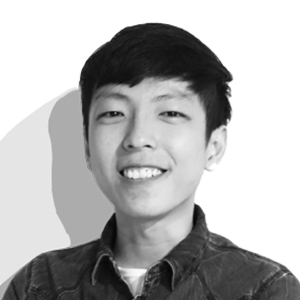
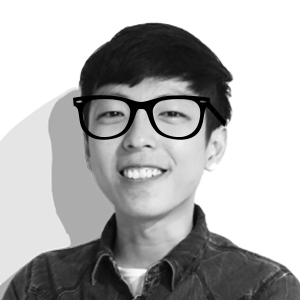
fix android overflow problom and add top button and remove preloader

Changed region(s): [[0.24, 0.3, 0.75, 0.48]]

diff --git a/js/resp.js b/js/resp.js
@@ -1,7 +1,7 @@
 //preloader
 window.addEventListener('DOMContentLoaded', function (e) { 
         $('#loader').show();
-        preload('./img/ai_paint.jpg','./img/ai_pics1.png','./img/ai_pics2.png','./img/ai_prototype.jpg','./img/go_logo.png','./img/go_pics1.png','./img/go_pics2.png','./img/go_prototype.jpg','./img/go_workflow.png','./img/me_desk.jpg','./img/me_myself.jpg','./img/me_nomachove.png','./img/mot_pics1.png','./img/mot_pics2.png','./img/mot_prototype.jpg','./img/resume_webconcept.png','./img/tkd_webconcept.png','./img/go_webconcept.png');     
+        //preload('./img/ai_paint.jpg','./img/ai_pics1.png','./img/ai_pics2.png','./img/ai_prototype.jpg','./img/go_logo.png','./img/go_pics1.png','./img/go_pics2.png','./img/go_prototype.jpg','./img/go_workflow.png','./img/me_desk.jpg','./img/me_myself.jpg','./img/me_nomachove.png','./img/mot_pics1.png','./img/mot_pics2.png','./img/mot_prototype.jpg','./img/resume_webconcept.png','./img/tkd_webconcept.png','./img/go_webconcept.png');     
 }, false);     
 window.addEventListener('load', function (e) {
 	//wait till once time animation end
@@ -66,7 +66,7 @@ function srollPage(){
 		    afterMove: function(index) {
 		        $('.leftInfo').fadeIn();
 		    },  
-		    loop: true,                     
+		    loop: false,                     
 		    keyboard: true,                  
 		    responsiveFallback: false,                          
 		    direction: "vertical"            
@@ -101,6 +101,14 @@ function srollPage(){
 	    }).on('mouseleave',function(){
 	        $('.aboutMe .uiShow').removeClass('shy');
 	    });
+	    $('.sunGlass').on('mouseover',function(){
+	        $('.hoverHead').find('img').attr('src','img/jim_hover.jpg');
+	    }).on('mouseleave',function(){
+	        $('.hoverHead').find('img').attr('src','img/jim.jpg');
+	    });
+	    $('.backToTop').on('click',function(){
+	    	$(".main").moveTo(1);
+	    });
 	});
 	
 
@@ -113,7 +121,9 @@ function srollPageDisabled(){
 		    responsiveFallback: true                          
 		});
 		$('#mePage').on('click',function(){
-			window.location.assign("http://jimfu.github.io/me_page.html");
+			// var windowLocation = ;
+			console.log(window.location.hostname);
+			// window.location.assign("http://jimfu.github.io/me_page.html");
 		});
 		$('#aiPage').on('click',function(){
 			window.location.assign("http://jimfu.github.io/ai_page.html");
@@ -130,6 +140,7 @@ function srollPageDisabled(){
 		$('#tkdPage').on('click',function(){
 			window.location.assign("http://jimfu.github.io/tkd_page.html");
 		});
+		$('.backToTop').hide();
 	});
 }
 

diff --git a/index.html b/index.html
@@ -121,7 +121,7 @@
                             <div class="murmurTitle">Graphic design</div>
                             <div class="murmurContent">
                                 I also handle all the icons and mascot design in this EIP.<br>
-                                These graphics are used for speical occations like google doodle. For instance, snowing in winter, rabbit astronaut drifts in outer space, the Nian monster play hide and seek with you, etc....
+                                These graphics are used for speical occations like google doodle. For instance, snowing in winter, rabbit astronaut drifting in outer space, the Nian monster playing hide and seek with you, etc....
                             </div>
                         </div>
                         <div class="pics">
@@ -361,9 +361,17 @@
         <section>
 
             <div class="hoverHead">
-                <img src="img/jim.jpg">
-                <div class="flirt">Still interested in me?</div>
-                <div class="linkPack"><a href="http://tw.linkedin.com/in/jiminfu" target="_blank">Linkedin</a> | <a href="https://drive.google.com/file/d/0B7Svp2hh-AMgRTBjdFZ2T0NJbjA/view?usp=sharing" target="_blank">Resume</a> | <a href="https://www.pinterest.com/uiuiuaa/" target="_blank">Pinterest</a></div>
+                <span>
+                    <img src="img/jim.jpg" class="sunGlass">
+                    <div class="flirt">Still interested in me?</div>
+                    <div class="linkPack">
+                        <span class="sunGlass">
+                            <a href="http://tw.linkedin.com/in/jiminfu" target="_blank">Linkedin</a> | 
+                            <a href="https://drive.google.com/file/d/0B7Svp2hh-AMgRTBjdFZ2T0NJbjA/view?usp=sharing" target="_blank">Resume</a> | <a href="https://www.pinterest.com/uiuiuaa/" target="_blank">Pinterest</a>
+                        </span>
+                    </div>
+                    <div class="backToTop sunGlass"></div>
+                </span>
             </div>
 
         </section>

diff --git a/css/style.css b/css/style.css
@@ -884,6 +884,7 @@ section:nth-child(6) .murmurTitle{ border-color:rgb(221, 9, 23); }
 .flirt{
     color: white;
     padding: 10px;
+    margin-top: 25px;
 
 }
 .hoverHead a{
@@ -919,3 +920,26 @@ section:nth-child(6) .murmurTitle{ border-color:rgb(221, 9, 23); }
     transition: all 200ms ease;
 }
 .linkPack{ color: white }
+.pageOverflow{
+    width: 100%;
+    overflow-y: auto;   
+}
+.backToTop{
+    display: inline-block;
+    width: 50px;
+    height: 50px;
+    background-image: url('../img/backBtn.png');
+    background-size: auto 100%;
+    margin-top: 15px;
+    background-position: -50px 0;
+    cursor: pointer;
+    border-radius: 100px;
+    -webkit-transform: scale(0.9);
+    -moz-transform: scale(0.9);
+    -ms-transform: scale(0.9);
+    -o-transform: scale(0.9);
+    transform: scale(0.9);
+}
+.backToTop:hover{
+    opacity: 0.8;
+}

diff --git a/ai_page.html b/ai_page.html
@@ -17,19 +17,11 @@
 
 </head>
 <body style="background: #2A2C34;">
-    <div id="banHeight">
-
-            <div class="rotatePhone"></div>
-
-    </div>
-<!--     <div id="loader">
-        <div class="sign"></div>
-    </div> -->
     <span class="backBtn fade animated fadeIn" style="display: block;"></span>
 
     <div class="main">
         <section class="aboutMe">
-            <div class="leftInfo" style="background-color:rgb(42, 44, 52);">
+            <div class="leftInfo pageOverflow" style="background-color:rgb(42, 44, 52);">
                 <div class="content animated fadeIn" style="display:block">
                     <h1>AI GROUP EIP</h1>
                     <div class="perBlock">

diff --git a/resume_page.html b/resume_page.html
@@ -17,19 +17,11 @@
 
 </head>
 <body style="background: #2A2C34;">
-    <div id="banHeight">
-
-            <div class="rotatePhone"></div>
-
-    </div>
-<!--     <div id="loader">
-        <div class="sign"></div>
-    </div> -->
     <span class="backBtn fade animated fadeIn" style="display: block;"></span>
 
     <div class="main">
         <section class="aboutMe">
-            <div class="leftInfo" style="background-color:rgb(42, 44, 52);">
+            <div class="leftInfo pageOverflow" style="background-color:rgb(42, 44, 52);">
                 <div class="content animated fadeIn" style="display:block">
                     <h1>RESUME BETA</h1>
                     <div class="perBlock">

diff --git a/tkd_page.html b/tkd_page.html
@@ -17,19 +17,11 @@
 
 </head>
 <body style="background: #2A2C34;">
-    <div id="banHeight">
-
-            <div class="rotatePhone"></div>
-
-    </div>
-<!--     <div id="loader">
-        <div class="sign"></div>
-    </div> -->
     <span class="backBtn fade animated fadeIn" style="display: block;"></span>
 
     <div class="main">
         <section class="aboutMe">
-            <div class="leftInfo" style="background-color:rgb(42, 44, 52);">
+            <div class="leftInfo pageOverflow" style="background-color:rgb(42, 44, 52);">
                 <div class="content animated fadeIn" style="display:block">
                     <h1>TAEKWONDO</h1>
                     <div class="perBlock">

diff --git a/me_page.html b/me_page.html
@@ -17,19 +17,11 @@
 
 </head>
 <body style="background: #2A2C34;">
-    <div id="banHeight">
-
-            <div class="rotatePhone"></div>
-
-    </div>
-<!--     <div id="loader">
-        <div class="sign"></div>
-    </div> -->
     <span class="backBtn fade animated fadeIn" style="display: block;"></span>
 
     <div class="main">
         <section class="aboutMe">
-            <div class="leftInfo" style="background-color:rgb(42, 44, 52);">
+            <div class="leftInfo pageOverflow" style="background-color:rgb(42, 44, 52);">
                 <div class="content animated fadeIn" style="display:block">
                     <h1>Jimin Fu</h1>
                     <div class="perBlock">

diff --git a/mot_page.html b/mot_page.html
@@ -17,19 +17,11 @@
 
 </head>
 <body style="background: #2A2C34;">
-    <div id="banHeight">
-
-            <div class="rotatePhone"></div>
-
-    </div>
-<!--     <div id="loader">
-        <div class="sign"></div>
-    </div> -->
     <span class="backBtn fade animated fadeIn" style="display: block;"></span>
 
     <div class="main">
         <section class="aboutMe">
-            <div class="leftInfo" style="background-color:rgb(42, 44, 52);">
+            <div class="leftInfo pageOverflow" style="background-color:rgb(42, 44, 52);">
                 <div class="content animated fadeIn" style="display:block">
                     <h1>MOT EIP</h1>
                     <div class="perBlock">

diff --git a/go_page.html b/go_page.html
@@ -17,19 +17,11 @@
 
 </head>
 <body style="background: #2A2C34;">
-    <div id="banHeight">
-
-            <div class="rotatePhone"></div>
-
-    </div>
-<!--     <div id="loader">
-        <div class="sign"></div>
-    </div> -->
     <span class="backBtn fade animated fadeIn" style="display: block;"></span>
 
     <div class="main">
         <section class="aboutMe">
-            <div class="leftInfo" style="background-color:rgb(42, 44, 52);">
+            <div class="leftInfo pageOverflow" style="background-color:rgb(42, 44, 52);">
                 <div class="content animated fadeIn" style="display:block">
                     <h1>GOAWAY</h1>
                     <div class="perBlock">
